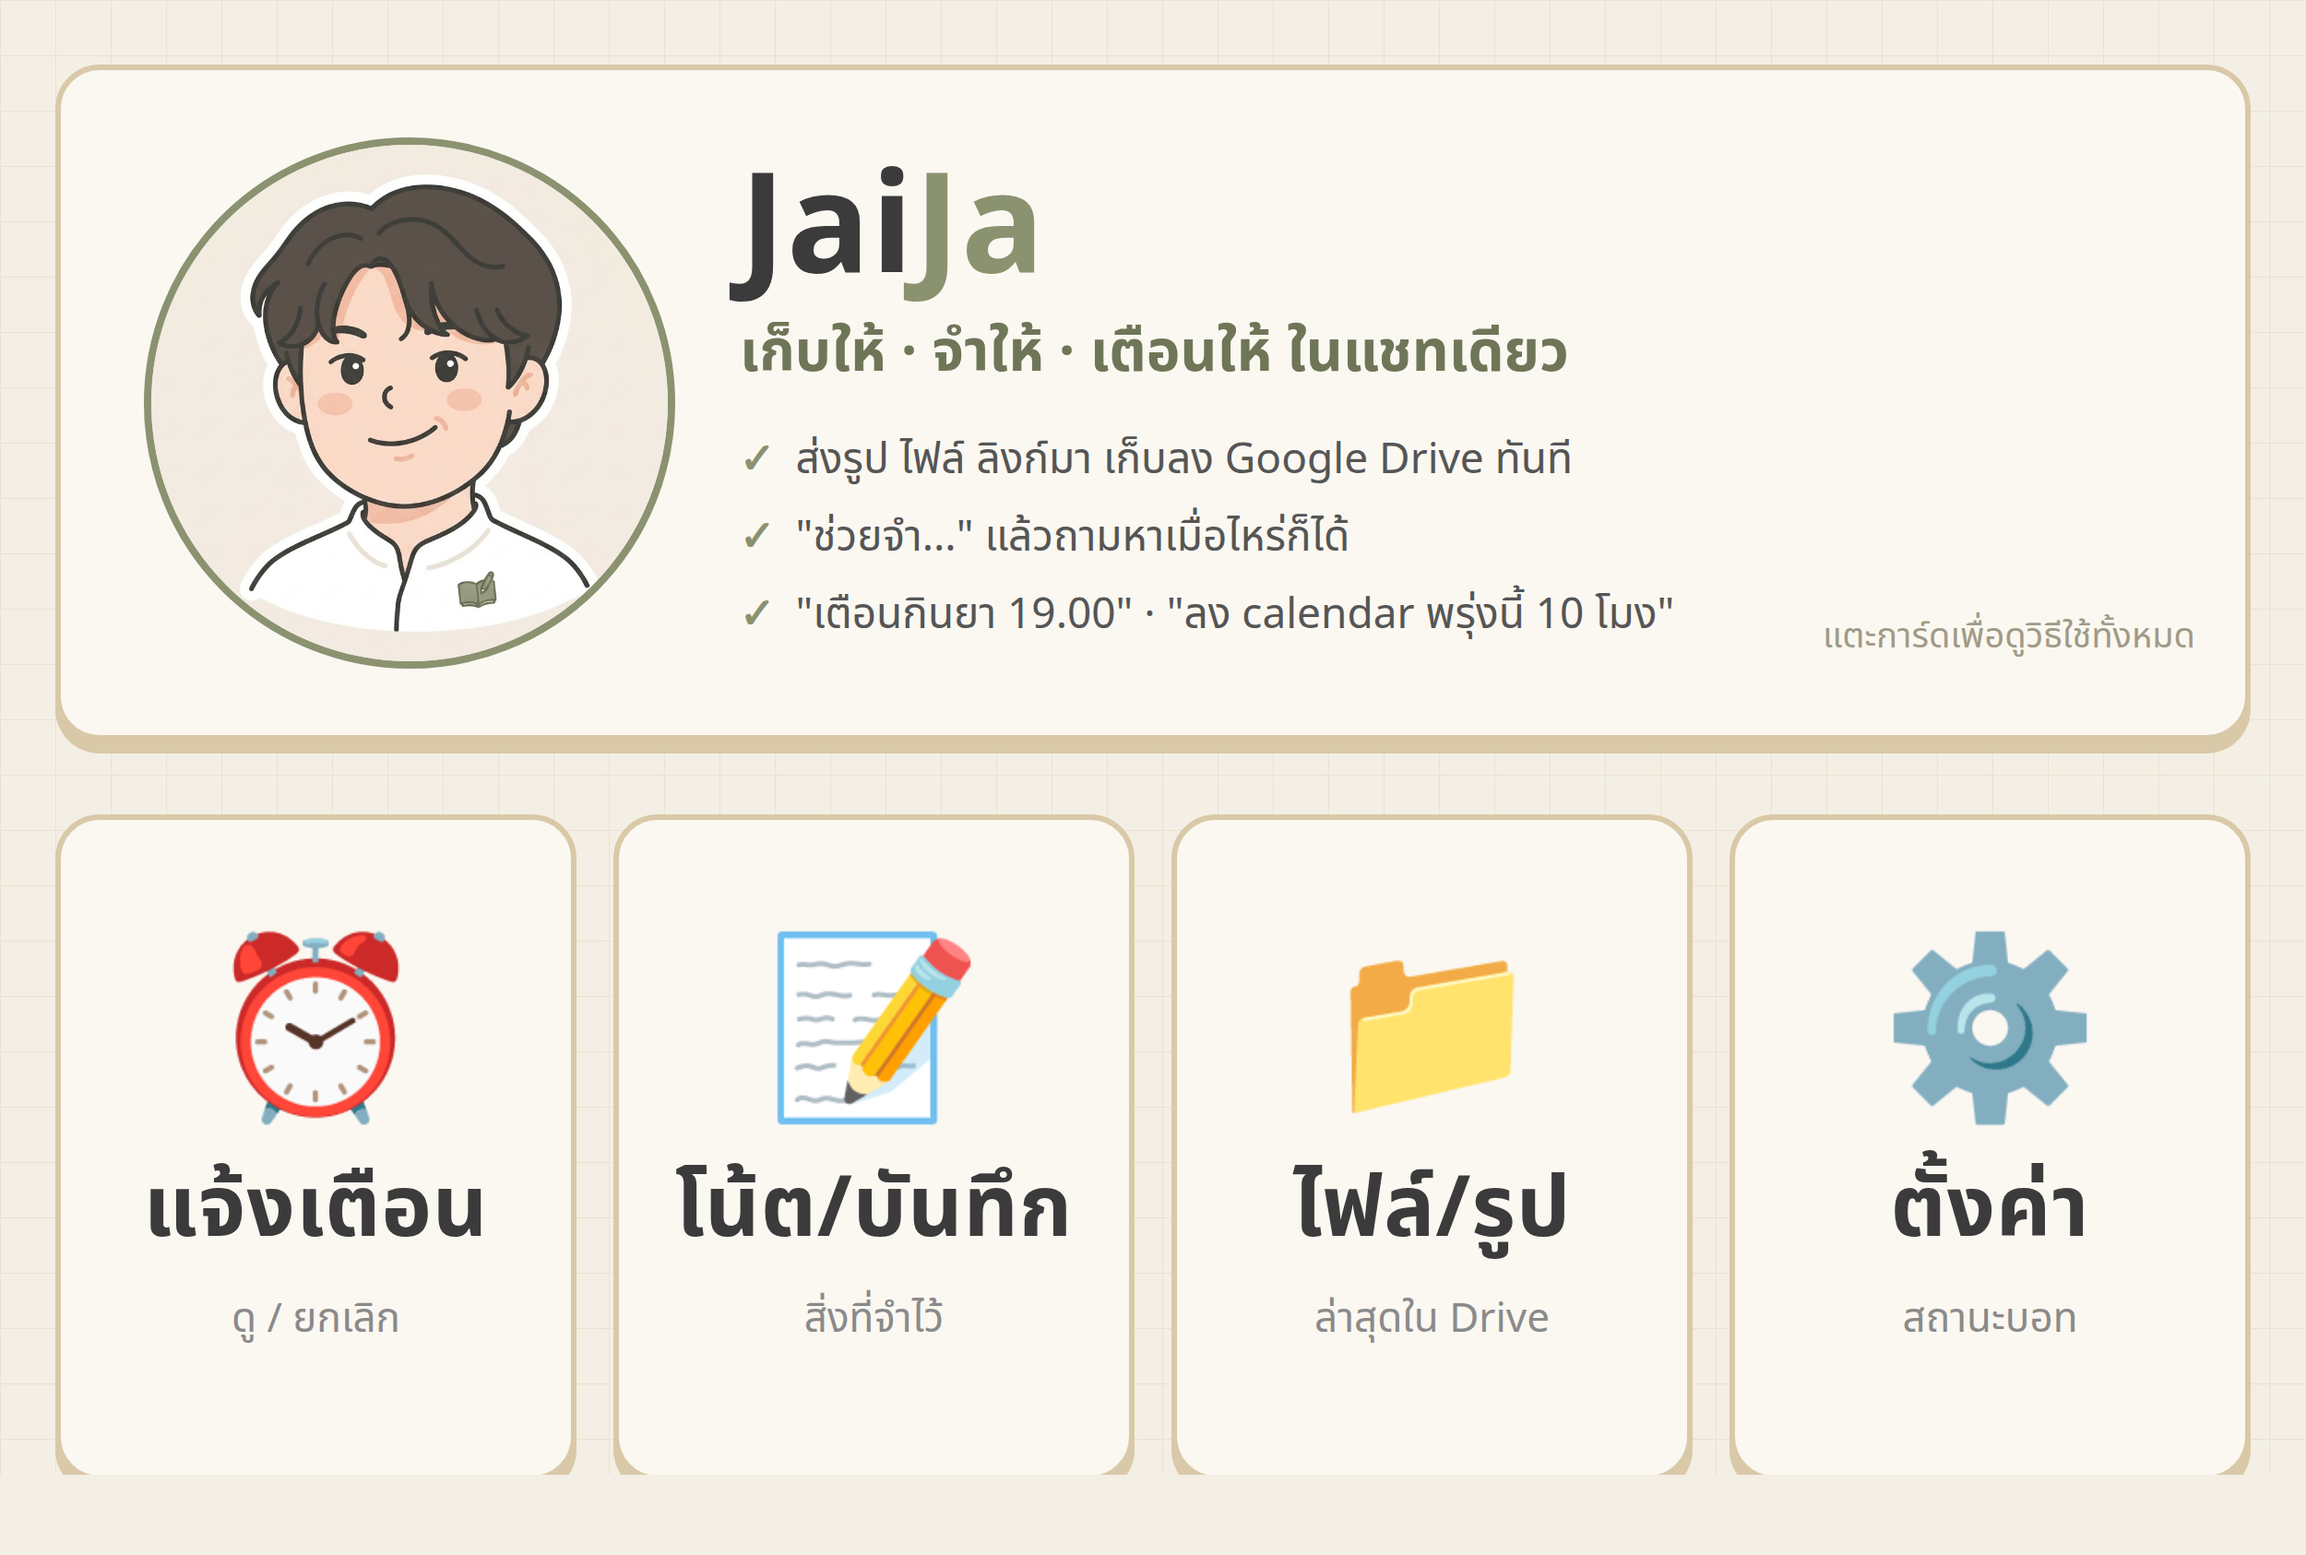
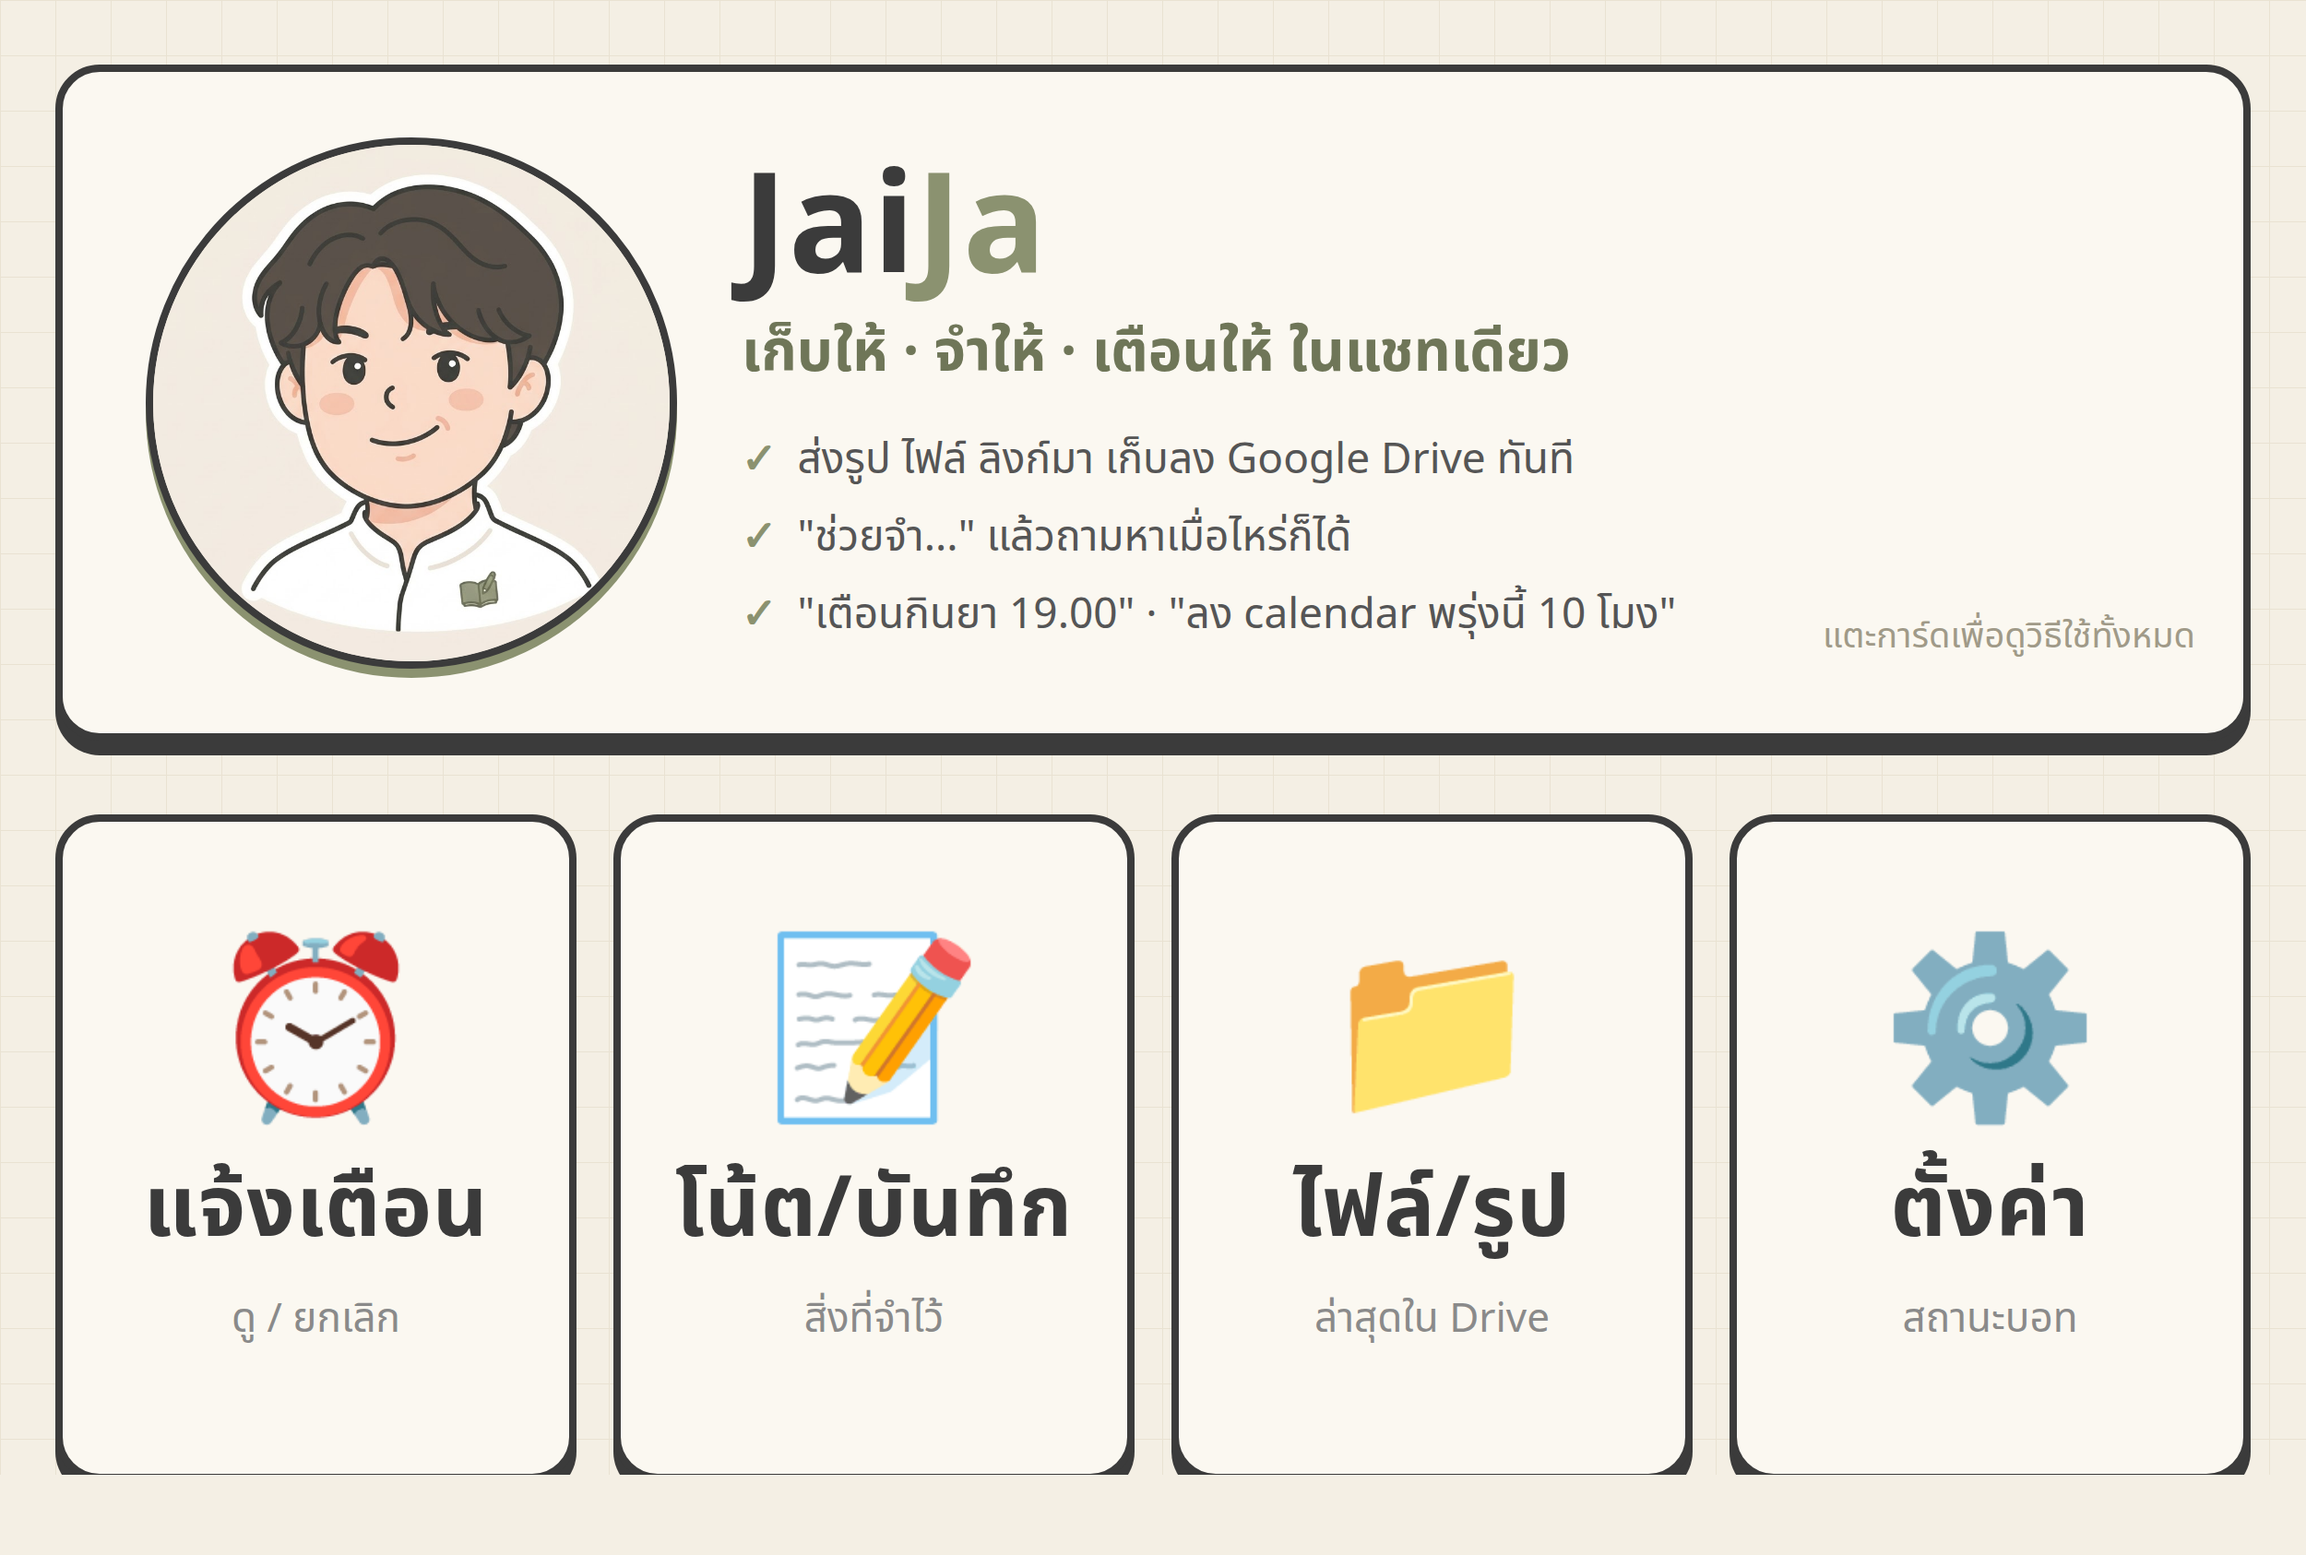
Outlined card style: dark stroke frame on Flex cards, outlined buttons, stroked rich menu
Claude-Session: https://claude.ai/code/session_015vCnr8hWsC3tgNT17YgMwq

diff --git a/test/flex.test.js b/test/flex.test.js
@@ -1,6 +1,8 @@
 import { test } from 'node:test';
 import assert from 'node:assert/strict';
-import { fileCard, filesCarousel, reminderCard, reminderListCard, eventCard, infoCard, linkButton } from '../src/flex.js';
+import { fileCard, filesCarousel, reminderCard, reminderListCard, dueReminderCard, eventCard, infoCard, linkButton, cardOf } from '../src/flex.js';
+
+const footerOf = (msg) => cardOf(msg.contents).contents.at(-1).contents;
 
 const TZ = 'Asia/Bangkok';
 const file = { id: '1', name: 'Bookbank.pdf', webViewLink: 'https://drive.google.com/x', day: '2026-09-08', size: 507000 };
@@ -9,10 +11,13 @@ test('fileCard has an open-file URI button and short altText', () => {
   const msg = fileCard(file, { title: '📁 เก็บไว้แล้ว' });
   assert.equal(msg.type, 'flex');
   assert.ok(msg.altText.length <= 400);
-  const btn = msg.contents.footer.contents[0];
+  const btn = footerOf(msg)[0];
+  assert.equal(btn.type, 'box'); // outlined box acting as a button
+  assert.equal(btn.borderColor, '#3B3B3B');
   assert.equal(btn.action.type, 'uri');
   assert.equal(btn.action.uri, file.webViewLink);
-  assert.equal(btn.action.label, 'เปิดไฟล์');
+  assert.equal(btn.contents[0].text, 'เปิดไฟล์');
+  assert.equal(msg.contents.styles.body.backgroundColor, '#3B3B3B'); // stroke frame
 });
 
 test('filesCarousel returns a bubble for one file and a carousel for many', () => {
@@ -25,7 +30,7 @@ test('filesCarousel returns a bubble for one file and a carousel for many', () =
 test('reminderCard carries reschedule/cancel postbacks with the id', () => {
   const now = new Date('2026-09-08T10:00:00+07:00');
   const msg = reminderCard({ id: 'r1', text: 'กินยา', at: '2026-09-08T18:00:00+07:00', repeat: 'daily' }, { timeZone: TZ, now });
-  const [row, link] = msg.contents.footer.contents;
+  const [row, link] = footerOf(msg);
   assert.equal(row.contents[0].action.data, 'action=reschedule&id=r1');
   assert.equal(row.contents[1].action.data, 'action=cancel&id=r1');
   assert.equal(link.action.data, 'action=list_reminders');
@@ -33,15 +38,24 @@ test('reminderCard carries reschedule/cancel postbacks with the id', () => {
 });
 
 test('reminderListCard handles empty and populated lists', () => {
-  assert.ok(reminderListCard([], { timeZone: TZ }).contents.body.contents.length === 2);
+  assert.equal(cardOf(reminderListCard([], { timeZone: TZ }).contents).contents.length, 2);
   const msg = reminderListCard([{ id: 'x', text: 'a', at: '2026-09-09T02:00:00Z', repeat: 'none' }], { timeZone: TZ });
-  assert.equal(msg.contents.body.contents[1].contents[1].action.data, 'action=cancel&id=x');
+  assert.equal(cardOf(msg.contents).contents[1].contents[1].action.data, 'action=cancel&id=x');
 });
 
 test('eventCard and infoCard build valid bubbles', () => {
   const ev = eventCard({ title: 'team dinner', start: '2026-09-09T18:09:00+07:00', end: '2026-09-09T19:09:00+07:00', link: 'https://cal' }, { timeZone: TZ });
   assert.match(ev.altText, /18:09 น\. - 19:09 น\./);
   const info = infoCard('⚙ ตั้งค่า', ['a', 'b'], { buttons: [linkButton('เปิด', 'https://x')] });
-  assert.equal(info.contents.body.contents.length, 3);
-  assert.equal(info.contents.footer.contents[0].action.uri, 'https://x');
+  assert.equal(cardOf(info.contents).contents.length, 4); // heading, a, b, footer box
+  assert.equal(footerOf(info)[0].action.uri, 'https://x');
+});
+
+test('dueReminderCard snooze/done reference the reminder id', () => {
+  const msg = dueReminderCard({ id: 'r9', text: 'กินยา', at: '2026-09-09T11:00:00Z', repeat: 'daily' }, { userName: 'Jai', timeZone: TZ });
+  const [row, done] = footerOf(msg);
+  assert.equal(row.contents[0].action.data, 'action=snooze&min=10&id=r9');
+  assert.equal(row.contents[1].action.data, 'action=snooze&min=60&id=r9');
+  assert.equal(done.action.data, 'action=done&id=r9');
+  assert.match(msg.altText, /Jai ถึงเวลากินยาแล้วนะ/);
 });

diff --git a/src/flex.js b/src/flex.js
@@ -7,6 +7,7 @@ import { describeWhen, describeRepeat } from './reminders.js';
 const C = {
   card: '#F4EFE4',
   cardAlt: '#EFE8D8',
+  stroke: '#3B3B3B', // the dark outline around cards and buttons
   button: '#8B9270',
   buttonText: '#FFFFFF',
   title: '#2E2E2E',
@@ -37,13 +38,24 @@ function muted(text) {
   return { type: 'text', text, size: 'sm', color: C.muted, wrap: true };
 }
 
+/** An outlined, rounded button. Boxes support borders; the button component does not. */
 function button(label, action, style = 'primary') {
+  const primary = style === 'primary';
   return {
-    type: 'button',
-    style,
-    height: 'sm',
-    color: style === 'primary' ? C.button : undefined,
+    type: 'box',
+    layout: 'vertical',
+    flex: 1,
+    backgroundColor: primary ? C.button : C.card,
+    borderWidth: '2px',
+    borderColor: C.stroke,
+    cornerRadius: '14px',
+    paddingTop: '10px',
+    paddingBottom: '10px',
+    paddingStart: '8px',
+    paddingEnd: '8px',
+    justifyContent: 'center',
     action,
+    contents: [{ type: 'text', text: label, align: 'center', weight: 'bold', size: 'sm', color: primary ? C.buttonText : C.title, wrap: true }],
   };
 }
 
@@ -55,31 +67,42 @@ export function postbackAction(label, data, displayText) {
   return { type: 'postback', label, data, displayText };
 }
 
+/**
+ * One stroked card. The bubble's own background is the stroke colour and the
+ * inner box is inset by the stroke width, which draws a clean outline that
+ * follows LINE's bubble rounding. The footer lives inside the same frame.
+ */
 function bubble({ contents, footer, size = 'kilo' }) {
-  const b = {
+  const inner = [...contents];
+  if (footer?.length) {
+    inner.push({ type: 'box', layout: 'vertical', spacing: 'sm', margin: 'lg', contents: footer });
+  }
+  return {
     type: 'bubble',
     size,
-    styles: { body: { backgroundColor: C.card }, footer: { backgroundColor: C.card, separator: false } },
+    styles: { body: { backgroundColor: C.stroke } },
     body: {
       type: 'box',
       layout: 'vertical',
-      spacing: 'sm',
-      paddingAll: '18px',
-      contents,
+      paddingAll: '3px',
+      contents: [
+        {
+          type: 'box',
+          layout: 'vertical',
+          spacing: 'sm',
+          paddingAll: '18px',
+          backgroundColor: C.card,
+          cornerRadius: '15px',
+          contents: inner,
+        },
+      ],
     },
   };
-  if (footer?.length) {
-    b.footer = {
-      type: 'box',
-      layout: 'vertical',
-      spacing: 'sm',
-      paddingStart: '18px',
-      paddingEnd: '18px',
-      paddingBottom: '16px',
-      contents: footer,
-    };
-  }
-  return b;
+}
+
+/** The inner card box of a bubble built by bubble(). Used by tests. */
+export function cardOf(bubbleObj) {
+  return bubbleObj.body.contents[0];
 }
 
 // -------------------------------------------------------------- files
